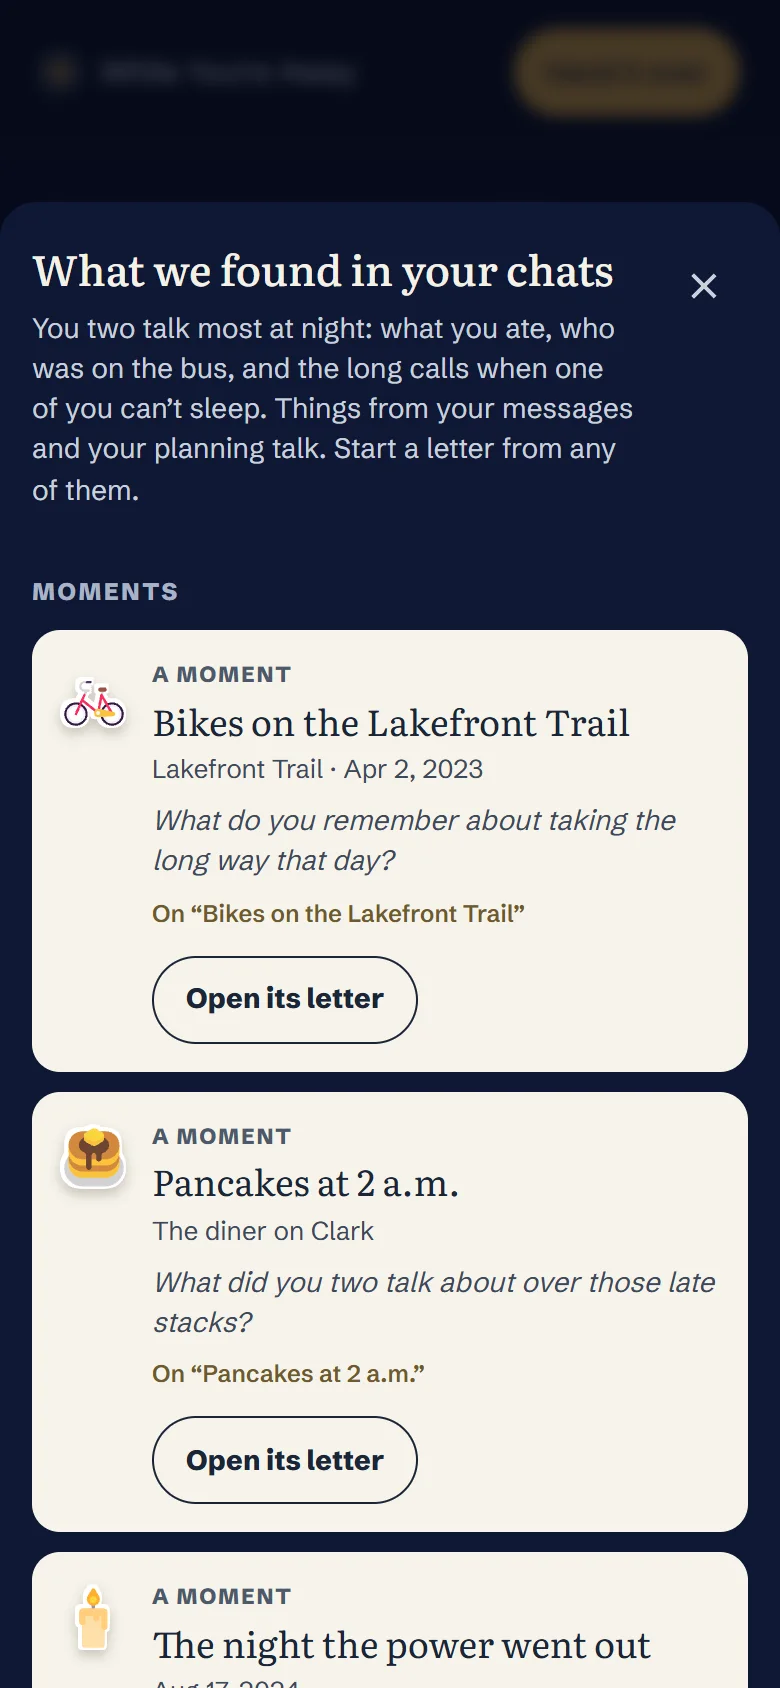
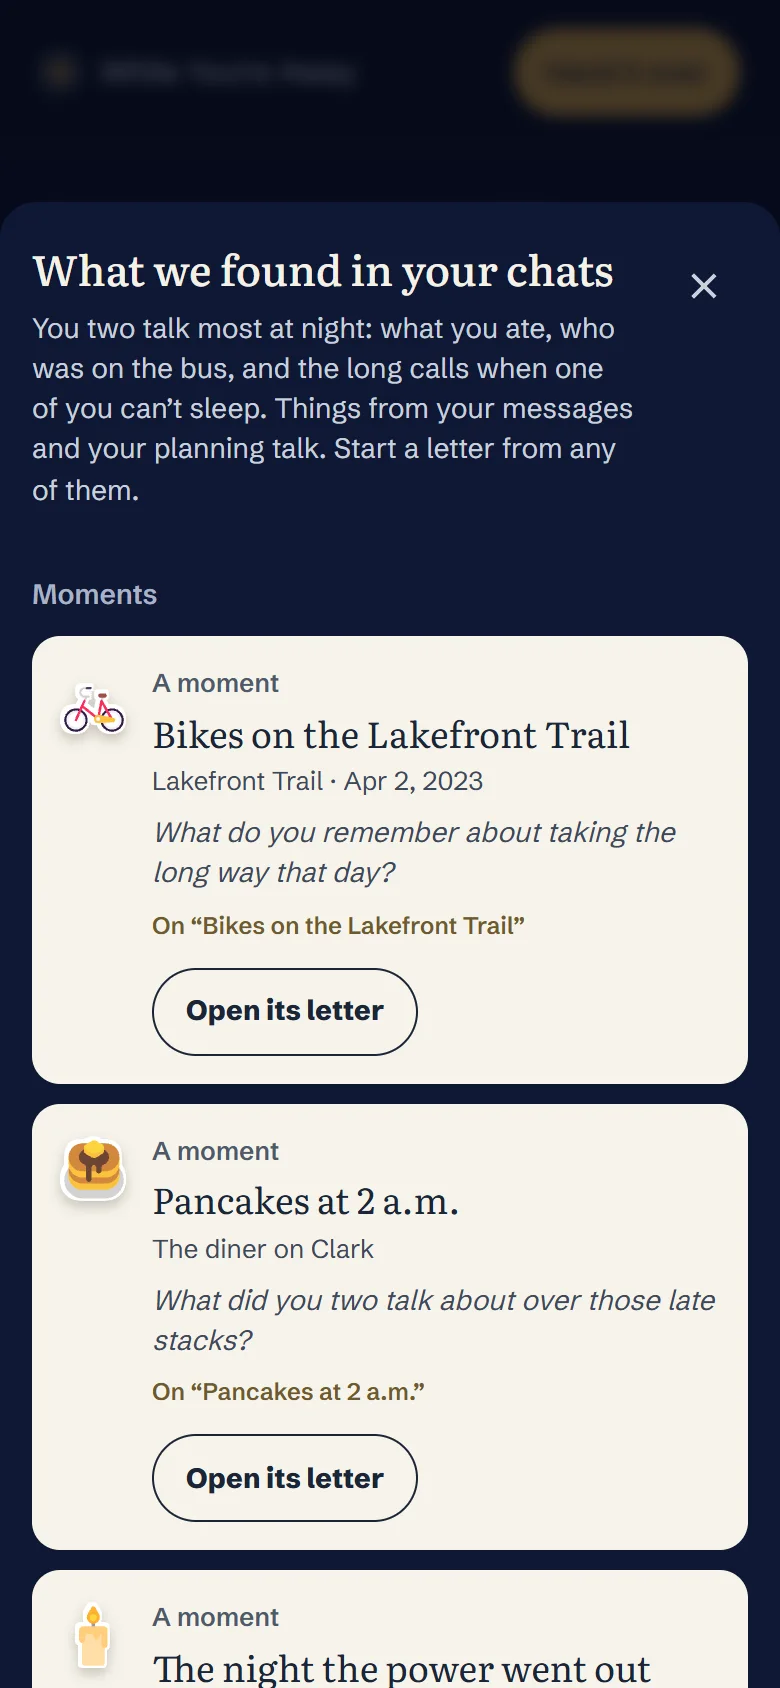
Letters open like real paper; the path and the editor show what's coming
- Wow: each form moves once as it opens, the way that paper moves in a
  hand: the envelope flap lifts, the ticket slides over and its stub
  tears, the folded note unfolds, the seal presses in, the postmark
  thumps, the saying sticks down, the diary rule draws, the receipt
  prints, the weeks fill in, the card opens. Transform and clip only,
  under a second, ending on the resting design; still under reduced
  motion.
- Diversity on the path: an unread letter shows the paper waiting in
  it (postcard, note, receipt, calendar page, ticket) instead of the
  same envelope, and says so to screen readers.
- Convenience in the editor: under each letter, "Emma will open this as
  a postcard from Lakefront Trail" (or whichever form), and, when
  nothing is pinned, how a moment or a saying would make it theirs.
- Design-tool pass: story-finder labels are sentence case and untracked
  (Hallmark 67, DESIGN.md), editor meta drops middle dots; demo box
  wording is American (sweater, practiced, apartment). Impeccable: no
  defects. Screenshots recaptured.

Changed region(s): [[0.0308, 0.3389, 0.9538, 1.0]]

diff --git a/src/pages/box/LetterApp.jsx b/src/pages/box/LetterApp.jsx
@@ -7,6 +7,7 @@ import Mascot, { Says } from '../../components/Mascot'
 import { Motif, TicketBanner } from '../../components/Decor'
 import { buildPath, currentNodeId, foldUnit, offsetFor, untilStats } from './journey'
 import './letterapp.css'
+import { letterForm } from '../../utils/design/letterForm'
 
 /* The recipient's letter box as an app: a menu (Letters, Photos, My replies, Until we meet) around
    a path that walks through time. Shared by the live box and the sender's preview. */
@@ -185,7 +186,7 @@ function LettersView({ box, items, units, openSet, current, onOpen, today, look 
               const n = row.node
               const i = index++
               const art = look?.pathArt?.length && i % 3 === 1 && current !== n.item.id ? look.pathArt[Math.floor(i / 3) % look.pathArt.length] : null
-              return <PathNode key={n.item.id} node={n} i={i} read={openSet.has(n.item.id)} isCurrent={current === n.item.id} onOpen={onOpen} today={today} fromName={box.fromName} art={art} />
+              return <PathNode key={n.item.id} node={n} i={i} read={openSet.has(n.item.id)} isCurrent={current === n.item.id} onOpen={onOpen} today={today} fromName={box.fromName} art={art} paper={paperOf(n.item, box)} />
             })}
           </ol>
         </section>
@@ -247,7 +248,7 @@ function FoldRow({ fold, onOpen }) {
   )
 }
 
-function PathNode({ node, i, read, isCurrent, onOpen, today, fromName, art = null }) {
+function PathNode({ node, i, read, isCurrent, onOpen, today, fromName, art = null, paper = null }) {
   const { item, kind, badge, mark, caption } = node
   const [peek, setPeek] = useState(false)
   useEffect(() => {
@@ -264,7 +265,7 @@ function PathNode({ node, i, read, isCurrent, onOpen, today, fromName, art = nul
   const name = kind === 'before' ? badge : item.label
   const label = locked
     ? `${name}, sealed${item.opensOn ? `, opens ${formatLong(item.opensOn)}` : ''}`
-    : `${name}${caption ? `, ${caption}` : ''}${fresh ? ', new' : ', read'}`
+    : `${name}${caption ? `, ${caption}` : ''}${paper && fresh ? `, ${PAPER_NAMES[paper]}` : ''}${fresh ? ', new' : ', read'}`
 
   return (
     <li className={`la-step la-step--${state} la-step--${kind}${big ? ' la-step--big' : ''}${isCurrent ? ' is-current' : ''}`} style={{ '--x': off, '--d': `${Math.min(i, 14) * 55}ms` }}>
@@ -274,7 +275,7 @@ function PathNode({ node, i, read, isCurrent, onOpen, today, fromName, art = nul
       {art && <Motif id={art} size={52} className={`la-step-art ${off > 0 ? 'is-left' : 'is-right'}`} tilt={off > 0 ? 8 : -8} />}
       <button type="button" className="la-node" aria-label={label} onClick={() => (locked ? setPeek(true) : onOpen(item.id))} disabled={item.empty}>
         <span className="la-node-face" aria-hidden="true">
-          {locked ? <LockGlyph big={big} kind={kind} /> : kind === 'before' ? <span className="la-node-d"><b>{mark?.big ?? badge}</b>{mark?.small && <small>{mark.small}</small>}</span> : kind === 'occasion' ? <GiftGlyph /> : kind === 'last' ? <HeartGlyph /> : read ? <CheckGlyph /> : <EnvelopeGlyph />}
+          {locked ? <LockGlyph big={big} kind={kind} /> : kind === 'before' ? <span className="la-node-d"><b>{mark?.big ?? badge}</b>{mark?.small && <small>{mark.small}</small>}</span> : kind === 'occasion' ? <GiftGlyph /> : kind === 'last' ? <HeartGlyph /> : read ? <CheckGlyph /> : <PaperGlyph form={paper} />}
         </span>
       </button>
       <span className="la-step-text" aria-hidden="true">
@@ -496,6 +497,22 @@ function MoonIcon() { return <svg width="22" height="22" viewBox="0 0 24 24" ari
 function LockGlyph({ big, kind }) {
   if (kind === 'last') return <svg width={big ? 34 : 26} height={big ? 34 : 26} viewBox="0 0 24 24" {...S} strokeWidth="1.8"><path d="M12 20s-7-4.4-7-10a4 4 0 0 1 7-2.6A4 4 0 0 1 19 10c0 5.6-7 10-7 10z" /></svg>
   return <svg width={big ? 30 : 24} height={big ? 30 : 24} viewBox="0 0 24 24" {...S} strokeWidth="1.8"><rect x="5" y="10.5" width="14" height="9.5" rx="2" /><path d="M8.5 10.5V8a3.5 3.5 0 0 1 7 0v2.5" /></svg>
+}
+/* The paper an unread letter will open as (utils/design/letterForm.js), so the path previews what waits. */
+const PAPER_NAMES = { postcard: 'a postcard', saying: 'a note', tally: 'a receipt of your numbers', leaf: 'a page of your calendar', ticket: 'a ticket', card: 'a card', sealed: 'a sealed letter', diary: 'a diary page', envelope: 'an envelope', folded: 'a folded note' }
+function paperOf(item, box) {
+  if (!item.open || item.empty) return null
+  const f = letterForm(item, { fromName: box.fromName, toName: box.toName, partDate: box.partDate, returnDate: box.returnDate, transport: box.decor?.ticket?.kind, nickname: box.look?.seal?.text, seal: box.look?.seal, stamps: box.look?.stamps, months: box.look?.pattern?.months })
+  return PAPER_NAMES[f.form] ? f.form : null
+}
+function PaperGlyph({ form }) {
+  const g = { width: 30, height: 30, viewBox: '0 0 24 24', ...S, strokeWidth: 1.8 }
+  if (form === 'postcard') return <svg {...g}><rect x="2.5" y="5" width="19" height="14" rx="1.5" /><rect x="15" y="7.5" width="4" height="4.5" /><path d="M5.5 9h6M5.5 12h6M5.5 15h4" /></svg>
+  if (form === 'saying') return <svg {...g}><path d="M5 17c0-4 1.5-7 4.5-8.5M13 17c0-4 1.5-7 4.5-8.5" /><circle cx="7" cy="16" r="2" /><circle cx="15" cy="16" r="2" /></svg>
+  if (form === 'tally') return <svg {...g}><path d="M6 3h12v18l-2-1.5-2 1.5-2-1.5-2 1.5-2-1.5L6 21z" /><path d="M9 8h6M9 11.5h6M9 15h3.5" /></svg>
+  if (form === 'leaf') return <svg {...g}><rect x="4" y="5" width="16" height="15" rx="2" /><path d="M4 9.5h16M8.5 3v4M15.5 3v4" /><rect x="7.5" y="12.5" width="3" height="3" fill="currentColor" /></svg>
+  if (form === 'ticket') return <svg {...g}><path d="M3 7h18v3a2 2 0 0 0 0 4v3H3v-3a2 2 0 0 0 0-4z" /><path d="M15 7.5v9" strokeDasharray="1.6 1.6" /></svg>
+  return <EnvelopeGlyph />
 }
 function EnvelopeGlyph() { return <svg width="30" height="30" viewBox="0 0 24 24" {...S} strokeWidth="1.9"><rect x="3" y="5.5" width="18" height="13" rx="2.5" /><path d="M3.5 7l8.5 6.5L20.5 7" /></svg> }
 function CheckGlyph() { return <svg width="28" height="28" viewBox="0 0 24 24" {...S} strokeWidth="2.2"><path d="M5 12.5l4.5 4.5L19 7.5" /></svg> }

diff --git a/src/styles/decor.css b/src/styles/decor.css
@@ -246,7 +246,7 @@
 .lp--form-leaf .lp-title { font-size: 30px; }
 
 /* A seal pressed where the envelope's flap meets, their initials and the name they use */
-.lpf-envelope-seal { position: absolute; z-index: 3; left: 50%; top: 8px; transform: translateX(-50%) rotate(-6deg); filter: drop-shadow(0 3px 4px rgba(40, 20, 10, .25)); }
+.lpf-envelope-seal { position: absolute; z-index: 3; left: 50%; top: 34px; transform: translateX(-50%) rotate(-6deg); filter: drop-shadow(0 3px 4px rgba(40, 20, 10, .25)); }
 .lpf-envelope:has(.lpf-envelope-seal) .lpf-envelope-front { padding-top: 64px; }
 
 /* A postcard whose picture side is the letter's own photograph */
@@ -312,3 +312,38 @@
 .lpf-ticket-name { background: color-mix(in srgb, var(--lpf-tk) 46%, #10131C); }
 .lpf-ticket-stub span { color: color-mix(in srgb, var(--lpf-tk) 46%, #10131C); }
 .lpf-leaf-weeks i { display: block; }
+
+/* ── Opening a letter (docs/letter-design-rules.md § 2): each paper moves once, the way that paper
+   moves in a hand. Transform and clip only, the app's ease, under a second; the resting design is
+   the end frame, and nothing moves under reduced motion. */
+.lpf-envelope { padding-top: 26px; }
+.lpf-envelope-flap { top: 26px; transform-origin: 50% 0; transform: rotateX(180deg); }
+.lpf-ticket-stub { transform: translateX(3px) rotate(1.2deg); transform-origin: 0 100%; }
+@media (prefers-reduced-motion: no-preference) {
+  .lp--form-envelope .lpf-envelope-flap { animation: lpfFlap 900ms cubic-bezier(.2, .7, .2, 1) 150ms both; }
+  .lp--form-envelope .lpf-envelope-seal { animation: lpfSealLift 700ms cubic-bezier(.2, .7, .2, 1) both; }
+  .lp--form-sealed .lpf-sealed .dl-seal { animation: lpfPress 800ms cubic-bezier(.2, .7, .2, 1) both; }
+  .lp--form-ticket .lpf-ticket { animation: lpfHand 700ms cubic-bezier(.2, .7, .2, 1) both; }
+  .lp--form-ticket .lpf-ticket-stub { animation: lpfTear 600ms cubic-bezier(.2, .7, .2, 1) 500ms both; }
+  .lp--form-folded { animation: lpfUnfold 800ms cubic-bezier(.2, .7, .2, 1) both; transform-origin: 50% 0; }
+  .lp--form-postcard .lpf-postcard-pm { animation: lpfThump 500ms cubic-bezier(.2, .7, .2, 1) 450ms both; }
+  .lp--form-postcard .lpf-postcard-marks .dc-stamp { animation: lpfStamp 500ms cubic-bezier(.2, .7, .2, 1) 200ms both; }
+  .lp--form-saying .lpf-saying { animation: lpfStick 650ms cubic-bezier(.2, .7, .2, 1) both; }
+  .lp--form-diary::before { animation: lpfRule 900ms cubic-bezier(.2, .7, .2, 1) both; transform-origin: 50% 0; }
+  .lp--form-tally .lpf-tally { animation: lpfPrint 1100ms steps(14, end) both; }
+  .lp--form-leaf .lpf-leaf-weeks i { animation: lpfDay 300ms ease-out both; animation-delay: calc(var(--i, 0) * 35ms); }
+  .lp--form-card .lpf-card, .lp--form-card .lp-title { animation: lpfCard 800ms cubic-bezier(.2, .7, .2, 1) both; transform-origin: 0 50%; }
+}
+@keyframes lpfFlap { from { transform: rotateX(0deg); } to { transform: rotateX(180deg); } }
+@keyframes lpfSealLift { 0% { transform: translateX(-50%) translateY(10px) rotate(-6deg) scale(1.08); } 100% { transform: translateX(-50%) rotate(-6deg); } }
+@keyframes lpfPress { 0% { transform: scale(1.35) rotate(-10deg); opacity: .4; } 60% { transform: scale(.96) rotate(1deg); opacity: 1; } 100% { transform: none; } }
+@keyframes lpfHand { from { transform: translateX(-18px) rotate(-2.5deg); } to { transform: none; } }
+@keyframes lpfTear { from { transform: none; } to { transform: translateX(3px) rotate(1.2deg); } }
+@keyframes lpfUnfold { 0% { transform: perspective(900px) rotateX(-70deg) scaleY(.6); } 100% { transform: none; } }
+@keyframes lpfThump { 0% { transform: rotate(-10deg) scale(1.5); opacity: 0; } 100% { transform: rotate(-10deg); opacity: .8; } }
+@keyframes lpfStamp { 0% { transform: rotate(14deg) translateY(-14px); } 100% { transform: rotate(3deg); } }
+@keyframes lpfStick { 0% { transform: rotate(-7deg) translateY(-14px) scale(1.04); } 100% { transform: rotate(-1.2deg); } }
+@keyframes lpfRule { from { transform: scaleY(0); } to { transform: none; } }
+@keyframes lpfPrint { from { clip-path: inset(0 0 100% 0); } to { clip-path: inset(0); } }
+@keyframes lpfDay { from { transform: scale(.2); } to { transform: none; } }
+@keyframes lpfCard { from { transform: perspective(900px) rotateY(-28deg); } to { transform: none; } }

diff --git a/src/pages/Editor.jsx b/src/pages/Editor.jsx
@@ -23,6 +23,7 @@ import { loadLocalChat } from '../utils/chat/local'
 import DesignWhy from '../components/DesignWhy'
 import '../styles/editor.css'
 import './diary.css'
+import { letterForm } from '../utils/design/letterForm'
 
 /* Step 4: write. The letter box is laid out the way it will open, section by section. */
 
@@ -381,6 +382,23 @@ function MissingSections({ plan, p1, onPlan }) {
   )
 }
 
+/* How this letter will arrive on their phone (utils/design/letterForm.js), said while it's being written,
+   with the one thing that would make it more theirs when nothing is pinned yet. */
+function ArrivesAs({ slot, pins = [], toName, canAdd }) {
+  const d = getDraft()
+  const p1 = d.phase1 || {}
+  const f = letterForm({ id: slot.id, section: slot.section, label: slot.label, opensOn: slot.opensOn, writtenOn: slot.writtenOn, pins: pins || [] }, { fromName: p1.fromName, toName: p1.toName, partDate: p1.startDate, returnDate: p1.endDate, transport: d.decor?.ticket?.kind })
+  const design = f.why[0]?.design
+  if (!design) return null
+  const plain = !pins?.length && ['leaf', 'classic'].includes(f.form)
+  return (
+    <p className="we-arrives">
+      <span>{toName || 'They'} will open this as {design}.</span>
+      {plain && canAdd && <span className="we-arrives-tip"> Pin a moment to make it a postcard from that place, or a saying to have it written large on top.</span>}
+    </p>
+  )
+}
+
 function LetterSheet({ slot, content, plan, toName, onChange, onPlan, onAsk, onClose, onFromStory, fromChat = true, onUnpin }) {
   const listKey = ADDABLE[slot.section]
   const item = listKey ? plan[listKey].find((x) => x.id === slot.id) : null
@@ -426,7 +444,7 @@ function LetterSheet({ slot, content, plan, toName, onChange, onPlan, onAsk, onC
         </button>
         <p className="we-sheet-meta">
           {SECTION_INFO[slot.section]?.title}
-          {slot.opensOn ? ` · ${slot.section === 'last' ? 'sealed until' : 'opens'} ${formatLong(slot.opensOn)}` : slot.section === 'anytime' ? ' · they can open it any time' : ''}
+          {slot.opensOn ? `, ${slot.section === 'last' ? 'sealed until' : 'opens'} ${formatLong(slot.opensOn)}` : slot.section === 'anytime' ? ', they can open it any time' : ''}
         </p>
         {item ? (
           <>
@@ -441,6 +459,7 @@ function LetterSheet({ slot, content, plan, toName, onChange, onPlan, onAsk, onC
         )}
         {slot.hint && <p className="we-hint">{slot.hint}</p>}
         <PinList pins={content.pins} onRemove={onUnpin} />
+        <ArrivesAs slot={slot} pins={content.pins} toName={toName} canAdd={!!onFromStory} />
         {onFromStory && <button type="button" className="we-from-story" onClick={onFromStory}>{fromChat ? '+ Add something from your chats' : '+ Add something from your story'}</button>}
 
         <label htmlFor="we-letter" className="wf-sr">Your letter</label>

diff --git a/src/styles/editor.css b/src/styles/editor.css
@@ -166,14 +166,14 @@
 .we-find-lede { margin: 6px 0 0; font-size: 14px; line-height: 1.45; color: var(--mist-soft); }
 .we-find-close { flex: none; color: var(--mist-soft); }
 .we-find-group { margin-top: 18px; }
-.we-find-gh { margin: 0 0 10px; font-size: 12px; font-weight: 700; letter-spacing: 0.1em; text-transform: uppercase; color: var(--mist-muted); }
+.we-find-gh { margin: 0 0 10px; font-size: 14px; font-weight: 600; color: var(--mist-muted); }
 .we-find-list { display: flex; flex-direction: column; gap: 10px; margin: 0; padding: 0; list-style: none; }
 .we-find-item { padding: 14px; border-radius: 14px; background: var(--paper); color: var(--ink); }
 .we-find-top { display: flex; align-items: flex-start; gap: 12px; }
 .we-find-top .dc-motif { flex: none; margin-top: 2px; }
 .we-find-mark { flex: none; display: grid; place-items: center; width: 34px; height: 34px; border-radius: 50%; background: #EDE6D3; color: var(--ink-soft); font-family: var(--serif); font-size: 18px; font-weight: 700; }
 .we-find-text { flex: 1; min-width: 0; display: flex; flex-direction: column; gap: 3px; }
-.we-find-kind { font-size: 11px; font-weight: 700; letter-spacing: 0.08em; text-transform: uppercase; color: var(--ink-muted); }
+.we-find-kind { font-size: 13px; font-weight: 600; color: var(--ink-muted); }
 .we-find-title { font-family: var(--serif); font-size: 18px; line-height: 1.3; color: var(--ink); overflow-wrap: anywhere; word-break: keep-all; }
 .we-find-sub { font-size: 13px; line-height: 1.4; color: var(--ink-soft); }
 .we-find-prompt { margin-top: 4px; font-size: 14px; line-height: 1.45; font-style: italic; color: var(--ink-soft); }
@@ -229,3 +229,7 @@
   .we-why-more li { grid-template-columns: 1fr; gap: 0; }
   .we-why-arrow { display: none; }
 }
+
+/* How the letter arrives on their phone, said quietly under its pins */
+.we-arrives { margin: 6px 0 2px; font-size: 14px; line-height: 1.45; color: var(--ink-soft); text-wrap: pretty; }
+.we-arrives-tip { color: var(--ink-muted, #6B7280); }

diff --git a/src/pages/box/demoBox.js b/src/pages/box/demoBox.js
@@ -28,7 +28,7 @@ export function demoBox(token = 'demo') {
     return {
       id: `d:${k}`,
       section: 'before',
-      label: long ? `Day ${n} before` : ['The first night I knew', 'Your laugh on the phone', 'Packing your blue jumper', 'What I didn’t say at dinner', 'The station, practised', 'Tomorrow'][k],
+      label: long ? `Day ${n} before` : ['The first night I knew', 'Your laugh on the phone', 'Packing your blue sweater', 'What I didn’t say at dinner', 'The station, practiced', 'Tomorrow'][k],
       stamp: `Written ${n} ${n === 1 ? 'day' : 'days'} before I left`,
       date: formatLong(writtenOn),
       writtenOn,
@@ -62,7 +62,7 @@ export function demoBox(token = 'demo') {
   const opened = fresh ? [] : long ? [...before.map((b) => b.id), 't0', ...scheduled.slice(0, 28).map((w) => w.id), 'n1', 's0'] : ['d:0', 'd:1', 'd:2', 't0', 'w0', 'n1', 's0']
   const replies = fresh ? [] : [
     { item_id: 'd:1', body: 'I didn’t know you remembered that call. I still have the voicemail.', created_at: `${addDays(today, -6)}T21:14:00Z` },
-    { item_id: 'w0', body: 'Week one done. The flat is too quiet without your music.', created_at: `${addDays(today, -12)}T08:40:00Z` },
+    { item_id: 'w0', body: 'Week one done. The apartment is too quiet without your music.', created_at: `${addDays(today, -12)}T08:40:00Z` },
   ]
 
   return {

diff --git a/src/components/StoryFinds.jsx b/src/components/StoryFinds.jsx
@@ -103,7 +103,7 @@ export function FindingsPanel({ story, target, pinnedOn, letterFor, onPin, onUnp
                     <div className="we-find-top">
                       {it.sticker ? <Motif id={it.sticker} size={34} /> : <span className="we-find-mark" aria-hidden="true">{KIND_MARK[it.pin.kind]}</span>}
                       <div className="we-find-text">
-                        <span className="we-find-kind">{KIND_NAME[it.pin.kind]}{it.from === 'talk' ? ' · from your planning talk' : ''}</span>
+                        <span className="we-find-kind">{KIND_NAME[it.pin.kind]}{it.from === 'talk' ? ', from your planning talk' : ''}</span>
                         <span className="we-find-title">{it.title}</span>
                         {it.sub && <span className="we-find-sub">{it.sub}</span>}
                         {it.prompt && <span className="we-find-prompt">{it.prompt}</span>}

diff --git a/src/utils/design/letterForm.js b/src/utils/design/letterForm.js
@@ -142,7 +142,7 @@ export function letterForm(item = {}, box = {}) {
         filled: Math.min(weeks, Math.round(gone / 7)),
         left: left === 0 ? 'Today you meet again' : left < 14 ? `${left} ${left === 1 ? 'day' : 'days'} to go` : `${Math.round(left / 7)} weeks to go`,
         date: longDate(item.opensOn),
-      }, [], { info: `Opens ${longDate(item.opensOn)}, ${gone} days into your time apart`, design: 'a leaf of your calendar, the weeks behind you filled in' })
+      }, [], { info: `Opens ${longDate(item.opensOn)}, ${gone} days into your time apart`, design: 'a page of your time apart, with the weeks already behind you filled in' })
     }
   }
 

diff --git a/src/components/LetterForms.jsx b/src/components/LetterForms.jsx
@@ -87,7 +87,7 @@ export default function FormHead({ form, meta, photoUrl = null, signature = null
       return (
         <div className="lpf-leaf">
           <div className="lpf-leaf-weeks" role="img" aria-label={`Week ${h.filled} of ${h.weeks}`}>
-            {Array.from({ length: h.weeks }, (_, i) => <i key={i} className={i < h.filled - 1 ? 'is-gone' : i === h.filled - 1 ? 'is-now' : ''} />)}
+            {Array.from({ length: h.weeks }, (_, i) => <i key={i} style={{ '--i': i }} className={i < h.filled - 1 ? 'is-gone' : i === h.filled - 1 ? 'is-now' : ''} />)}
           </div>
           <p className="lpf-leaf-left">{h.left}</p>
         </div>
